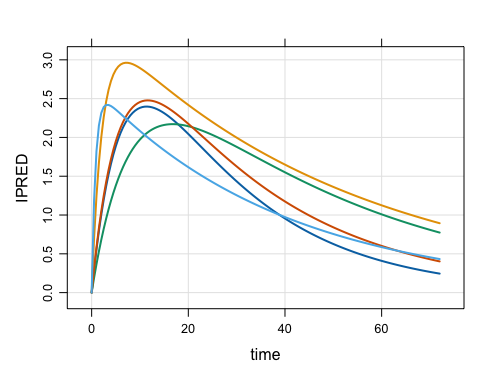
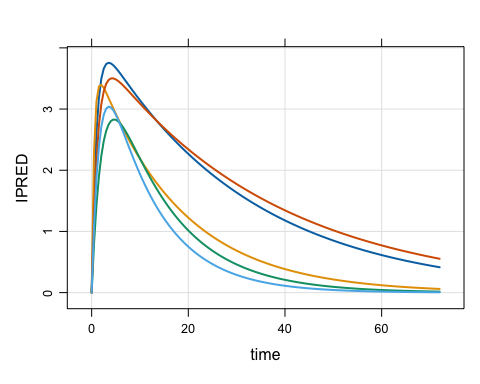
re-fresh

diff --git a/README.md b/README.md
@@ -61,14 +61,14 @@ out
 . Files: 1 [13.2 Mb]
 . Owner: yes (gc)
 .     ID time       CL     IPRED
-. 1:   1  0.0 1.170849 0.0000000
-. 2:   1  0.0 1.170849 0.0000000
-. 3:   1  0.5 1.170849 0.9304048
-. 4:   1  1.0 1.170849 1.6292029
-. 5:   1  1.5 1.170849 2.1489780
-. 6:   1  2.0 1.170849 2.5304864
-. 7:   1  2.5 1.170849 2.8053143
-. 8:   1  3.0 1.170849 2.9979387
+. 1:   1  0.0 1.014529 0.0000000
+. 2:   1  0.0 1.014529 0.0000000
+. 3:   1  0.5 1.014529 0.6801717
+. 4:   1  1.0 1.014529 1.1816281
+. 5:   1  1.5 1.014529 1.5489792
+. 6:   1  2.0 1.014529 1.8157303
+. 7:   1  2.5 1.014529 2.0070464
+. 8:   1  3.0 1.014529 2.1418272
 ```
 
 ## Very lightweight simulation output object
@@ -79,7 +79,7 @@ disk.
 
 ``` r
 basename(out$files)
-. [1] "mrgsims-ds-486110cf3d3.parquet"
+. [1] "mrgsims-ds-745f58e541d8.parquet"
 ```
 
 This means there is almost nothing inside the object itself
@@ -102,6 +102,8 @@ lobstr::obj_size(x)
 
 dim(x)
 . [1] 1446000       4
+
+rm(x)
 ```
 
 The `mrgsim.ds` object is very light weight despite tracking the same
@@ -124,23 +126,23 @@ head(out)
 . # A tibble: 6 × 4
 .      ID  time    CL IPRED
 .   <dbl> <dbl> <dbl> <dbl>
-. 1     1   0    1.17 0    
-. 2     1   0    1.17 0    
-. 3     1   0.5  1.17 0.930
-. 4     1   1    1.17 1.63 
-. 5     1   1.5  1.17 2.15 
-. 6     1   2    1.17 2.53
+. 1     1   0    1.01 0    
+. 2     1   0    1.01 0    
+. 3     1   0.5  1.01 0.680
+. 4     1   1    1.01 1.18 
+. 5     1   1.5  1.01 1.55 
+. 6     1   2    1.01 1.82
 
 tail(out)
 . # A tibble: 6 × 4
 .      ID  time    CL IPRED
 .   <dbl> <dbl> <dbl> <dbl>
-. 1  3000  238. 0.877 0.384
-. 2  3000  238  0.877 0.379
-. 3  3000  238. 0.877 0.375
-. 4  3000  239  0.877 0.370
-. 5  3000  240. 0.877 0.365
-. 6  3000  240  0.877 0.361
+. 1  3000  238. 0.713 0.252
+. 2  3000  238  0.713 0.249
+. 3  3000  238. 0.713 0.245
+. 4  3000  239  0.713 0.241
+. 5  3000  240. 0.713 0.238
+. 6  3000  240  0.713 0.234
 
 dim(out)
 . [1] 1446000       4
@@ -154,16 +156,16 @@ as_tibble(out)
 . # A tibble: 1,446,000 × 4
 .       ID  time    CL IPRED
 .    <dbl> <dbl> <dbl> <dbl>
-.  1     1   0    1.17 0    
-.  2     1   0    1.17 0    
-.  3     1   0.5  1.17 0.930
-.  4     1   1    1.17 1.63 
-.  5     1   1.5  1.17 2.15 
-.  6     1   2    1.17 2.53 
-.  7     1   2.5  1.17 2.81 
-.  8     1   3    1.17 3.00 
-.  9     1   3.5  1.17 3.13 
-. 10     1   4    1.17 3.21 
+.  1     1   0    1.01 0    
+.  2     1   0    1.01 0    
+.  3     1   0.5  1.01 0.680
+.  4     1   1    1.01 1.18 
+.  5     1   1.5  1.01 1.55 
+.  6     1   2    1.01 1.82 
+.  7     1   2.5  1.01 2.01 
+.  8     1   3    1.01 2.14 
+.  9     1   3.5  1.01 2.23 
+. 10     1   4    1.01 2.30 
 . # ℹ 1,445,990 more rows
 ```
 
@@ -189,16 +191,16 @@ as_duckdb_ds(out)
 . # Database: DuckDB 1.5.1 [kyleb@Darwin 24.6.0:R 4.5.3/:memory:]
 .       ID  time    CL IPRED
 .    <dbl> <dbl> <dbl> <dbl>
-.  1     1   0    1.17 0    
-.  2     1   0    1.17 0    
-.  3     1   0.5  1.17 0.930
-.  4     1   1    1.17 1.63 
-.  5     1   1.5  1.17 2.15 
-.  6     1   2    1.17 2.53 
-.  7     1   2.5  1.17 2.81 
-.  8     1   3    1.17 3.00 
-.  9     1   3.5  1.17 3.13 
-. 10     1   4    1.17 3.21 
+.  1     1   0    1.01 0    
+.  2     1   0    1.01 0    
+.  3     1   0.5  1.01 0.680
+.  4     1   1    1.01 1.18 
+.  5     1   1.5  1.01 1.55 
+.  6     1   2    1.01 1.82 
+.  7     1   2.5  1.01 2.01 
+.  8     1   3    1.01 2.14 
+.  9     1   3.5  1.01 2.23 
+. 10     1   4    1.01 2.30 
 . # ℹ more rows
 ```
 
@@ -232,15 +234,15 @@ collect(dd)
 .     time  Mean     n
 .    <dbl> <dbl> <int>
 .  1   0    0     6000
-.  2   0.5  1.09  3000
-.  3   1    1.79  3000
-.  4   1.5  2.25  3000
-.  5   2    2.56  3000
-.  6   2.5  2.78  3000
-.  7   3    2.92  3000
-.  8   3.5  3.02  3000
-.  9   4    3.08  3000
-. 10   4.5  3.12  3000
+.  2   0.5  1.11  3000
+.  3   1    1.81  3000
+.  4   1.5  2.27  3000
+.  5   2    2.59  3000
+.  6   2.5  2.80  3000
+.  7   3    2.95  3000
+.  8   3.5  3.05  3000
+.  9   4    3.11  3000
+. 10   4.5  3.14  3000
 . # ℹ 471 more rows
 ```
 
@@ -250,6 +252,8 @@ This workflow is particularly useful when running replicate simulations
 in parallel, with large outputs
 
 ``` r
+rm(out)
+
 library(future.apply, quietly = TRUE)
 
 plan(multisession, workers = 5L)
@@ -269,14 +273,14 @@ out2
 . Files: 10 [131.8 Mb]
 . Owner: yes (gc)
 .     ID time       CL    IPRED
-. 1:   1  0.0 0.672067 0.000000
-. 2:   1  0.0 0.672067 0.000000
-. 3:   1  0.5 0.672067 1.129249
-. 4:   1  1.0 0.672067 2.018886
-. 5:   1  1.5 0.672067 2.715466
-. 6:   1  2.0 0.672067 3.256577
-. 7:   1  2.5 0.672067 3.672563
-. 8:   1  3.0 0.672067 3.987920
+. 1:   1  0.0 2.536746 0.000000
+. 2:   1  0.0 2.536746 0.000000
+. 3:   1  0.5 2.536746 2.381379
+. 4:   1  1.0 2.536746 3.468982
+. 5:   1  1.5 2.536746 3.893518
+. 6:   1  2.0 2.536746 3.982258
+. 7:   1  2.5 2.536746 3.904768
+. 8:   1  3.0 2.536746 3.748668
 ```
 
 ``` r
@@ -291,27 +295,27 @@ All `arrow` files are stored in the `tempdir()` in parquet format
 ``` r
 list_temp()
 . 11 files [145 Mb]
-. - mrgsims-ds-486110cf3d3.parquet
-. - mrgsims-ds-4cd40dc5bf2.parquet
+. - mrgsims-ds-745f58e541d8.parquet
+. - mrgsims-ds-749e5c8067e5.parquet
 .    ...
-. - mrgsims-ds-4d149917672.parquet
-. - mrgsims-ds-4d17ebf6d10.parquet
+. - mrgsims-ds-74a230c6776f.parquet
+. - mrgsims-ds-74a235cb316d.parquet
 ```
 
 This directory is eventually removed when the R session ends. Tools are
 provided to manage the space.
 
 ``` r
-retain_temp(out2)
+purge_except_temp(out2)
 . Discarding 1 files.
 
 list_temp()
 . 10 files [131.8 Mb]
-. - mrgsims-ds-4cd40dc5bf2.parquet
-. - mrgsims-ds-4cd76cdcb45.parquet
+. - mrgsims-ds-749e5c8067e5.parquet
+. - mrgsims-ds-749e72251ad4.parquet
 .    ...
-. - mrgsims-ds-4d149917672.parquet
-. - mrgsims-ds-4d17ebf6d10.parquet
+. - mrgsims-ds-74a230c6776f.parquet
+. - mrgsims-ds-74a235cb316d.parquet
 ```
 
 We also put a finalizer on each object so that, when it goes out of
@@ -321,6 +325,8 @@ First, run a bunch of simulations.
 
 ``` r
 plan(multisession, workers = 5L)
+
+rm(out2)
 
 out1 <- mrgsim_ds(mod, data)
 rename_ds(out1, "out1")
@@ -357,9 +363,9 @@ cleaned up.
 
 ``` r
 gc()
-.            used  (Mb) gc trigger  (Mb) limit (Mb) max used  (Mb)
-. Ncells  2275239 121.6    3813578 203.7         NA  3813578 203.7
-. Vcells 15673798 119.6   26745405 204.1      16384 22220811 169.6
+.           used  (Mb) gc trigger  (Mb) limit (Mb) max used  (Mb)
+. Ncells 2282454 121.9    3808501 203.4         NA  3808501 203.4
+. Vcells 9900737  75.6   20725109 158.2      16384 22220491 169.6
 
 list_temp()
 . 2 files [26.4 Mb]
@@ -446,15 +452,15 @@ out[[1]]
 . Dim  : 876 x 4
 . Files: 1 [10.5 Kb]
 . Owner: no
-.     ID TIME       CL     IPRED
-. 1:   1  0.0 1.098624 0.0000000
-. 2:   1  0.0 1.098624 0.0000000
-. 3:   1  0.5 1.098624 0.2922486
-. 4:   1  1.0 1.098624 0.5561621
-. 5:   1  1.5 1.098624 0.7940186
-. 6:   1  2.0 1.098624 1.0079207
-. 7:   1  2.5 1.098624 1.1998089
-. 8:   1  3.0 1.098624 1.3714743
+.     ID TIME        CL    IPRED
+. 1:   1  0.0 0.7749133 0.000000
+. 2:   1  0.0 0.7749133 0.000000
+. 3:   1  0.5 0.7749133 1.647474
+. 4:   1  1.0 0.7749133 2.618716
+. 5:   1  1.5 0.7749133 3.180772
+. 6:   1  2.0 0.7749133 3.495396
+. 7:   1  2.5 0.7749133 3.660559
+. 8:   1  3.0 0.7749133 3.735602
 . [mrgsim.ds] pointer and source pid refreshed.
 ```
 
@@ -483,15 +489,15 @@ out
 . Dim  : 2,628 x 4
 . Files: 3 [31.4 Kb]
 . Owner: yes (gc)
-.     ID TIME       CL     IPRED
-. 1:   1  0.0 1.098624 0.0000000
-. 2:   1  0.0 1.098624 0.0000000
-. 3:   1  0.5 1.098624 0.2922486
-. 4:   1  1.0 1.098624 0.5561621
-. 5:   1  1.5 1.098624 0.7940186
-. 6:   1  2.0 1.098624 1.0079207
-. 7:   1  2.5 1.098624 1.1998089
-. 8:   1  3.0 1.098624 1.3714743
+.     ID TIME        CL    IPRED
+. 1:   1  0.0 0.7749133 0.000000
+. 2:   1  0.0 0.7749133 0.000000
+. 3:   1  0.5 0.7749133 1.647474
+. 4:   1  1.0 0.7749133 2.618716
+. 5:   1  1.5 0.7749133 3.180772
+. 6:   1  2.0 0.7749133 3.495396
+. 7:   1  2.5 0.7749133 3.660559
+. 8:   1  3.0 0.7749133 3.735602
 ```
 
 Now we have all three files collected in a single object that we can
@@ -527,15 +533,15 @@ out2
 . Dim  : 2,628 x 4
 . Files: 3 [31.4 Kb]
 . Owner: yes (no gc)
-.     ID TIME       CL     IPRED
-. 1:   1  0.0 1.098624 0.0000000
-. 2:   1  0.0 1.098624 0.0000000
-. 3:   1  0.5 1.098624 0.2922486
-. 4:   1  1.0 1.098624 0.5561621
-. 5:   1  1.5 1.098624 0.7940186
-. 6:   1  2.0 1.098624 1.0079207
-. 7:   1  2.5 1.098624 1.1998089
-. 8:   1  3.0 1.098624 1.3714743
+.     ID TIME        CL    IPRED
+. 1:   1  0.0 0.7749133 0.000000
+. 2:   1  0.0 0.7749133 0.000000
+. 3:   1  0.5 0.7749133 1.647474
+. 4:   1  1.0 0.7749133 2.618716
+. 5:   1  1.5 0.7749133 3.180772
+. 6:   1  2.0 0.7749133 3.495396
+. 7:   1  2.5 0.7749133 3.660559
+. 8:   1  3.0 0.7749133 3.735602
 ```
 
 ``` r

diff --git a/inst/covr/zero.md b/inst/covr/zero.md
@@ -30,8 +30,8 @@
 "519","R/own.R","clean_up_trash",219,0
 "200","R/temp.R","list_temp",50,0
 "203","R/temp.R","list_temp",51,0
-"269","R/temp.R","retain_temp",74,0
-"271","R/temp.R","retain_temp",75,0
+"269","R/temp.R","purge_except_temp",74,0
+"271","R/temp.R","purge_except_temp",75,0
 "92","R/utils.R","require_ds",26,0
 "299","R/utils.R","pid_changed",86,0
 "314","R/utils.R","get_mread_pid",93,0

diff --git a/CLAUDE.md b/CLAUDE.md
@@ -55,7 +55,7 @@ Objects track `$pid` (creation process). Arrow Dataset pointers become invalid a
 | `R/verbs.R` | dplyr S3 methods (filter, mutate, summarise, etc.) |
 | `R/reduce.R` | `reduce_ds()` — combines a list of outputs |
 | `R/refresh.R` | `refresh_ds()` — rebuild Arrow pointer post-fork |
-| `R/temp.R` | `list_temp()`, `retain_temp()`, `purge_temp()` |
+| `R/temp.R` | `list_temp()`, `purge_except_temp()`, `purge_temp()` |
 | `R/gc.R` | `gc_ds()` — toggle GC/auto-delete and notify flags |
 | `R/prune.R` | `prune_ds()` — filter a list to only mrgsimsds objects |
 | `R/simlist.R` | Internal helpers for working with lists of mrgsimsds objects |